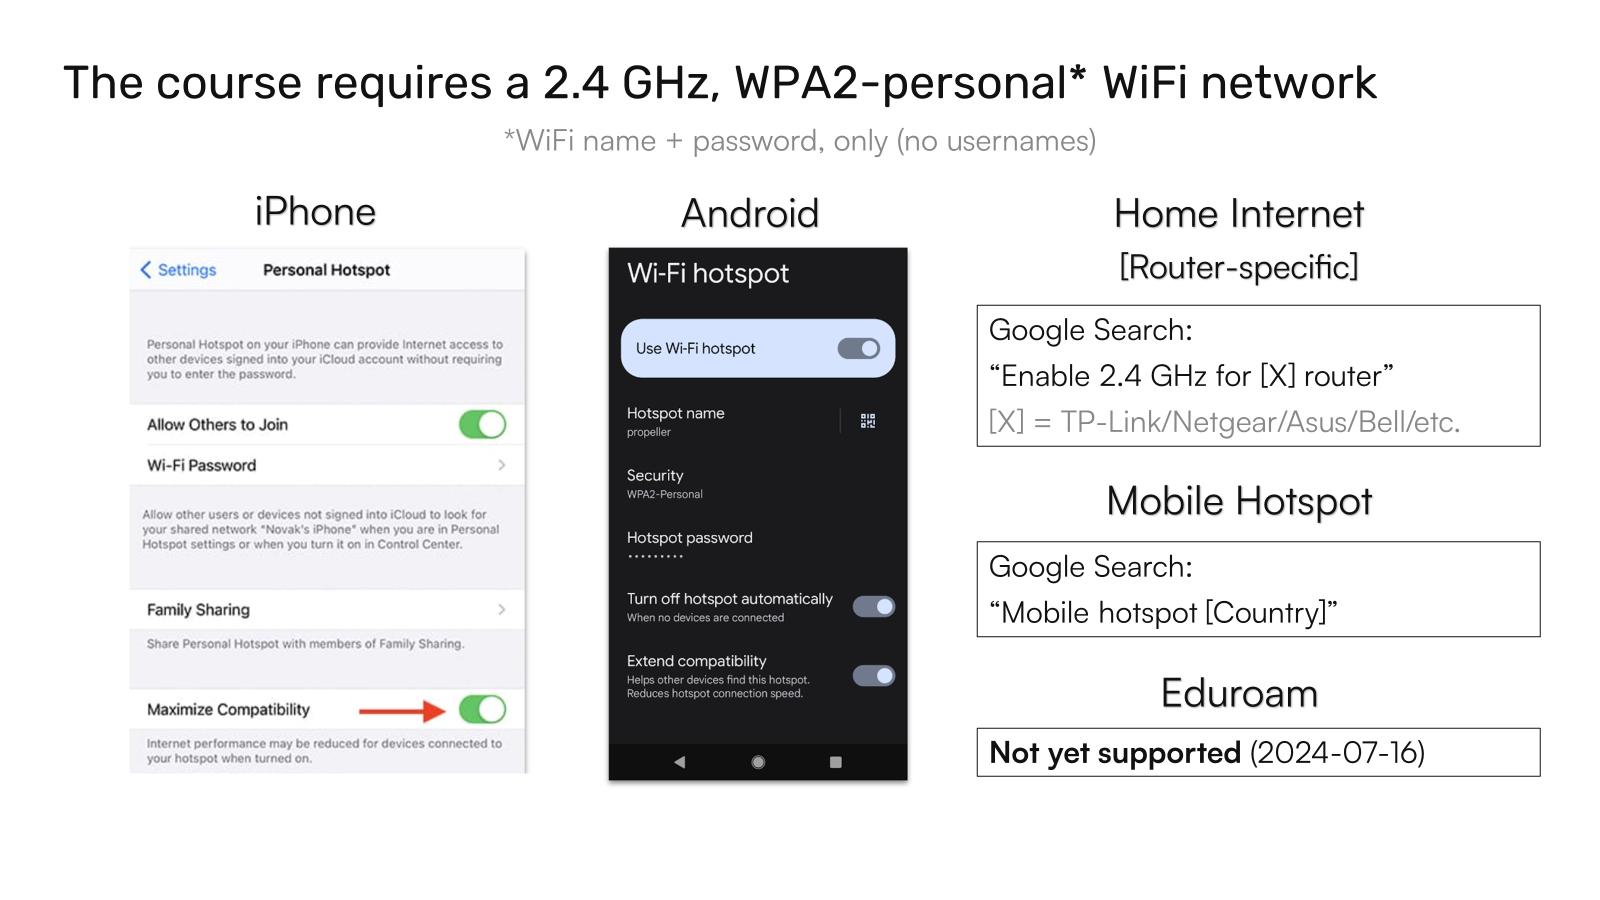
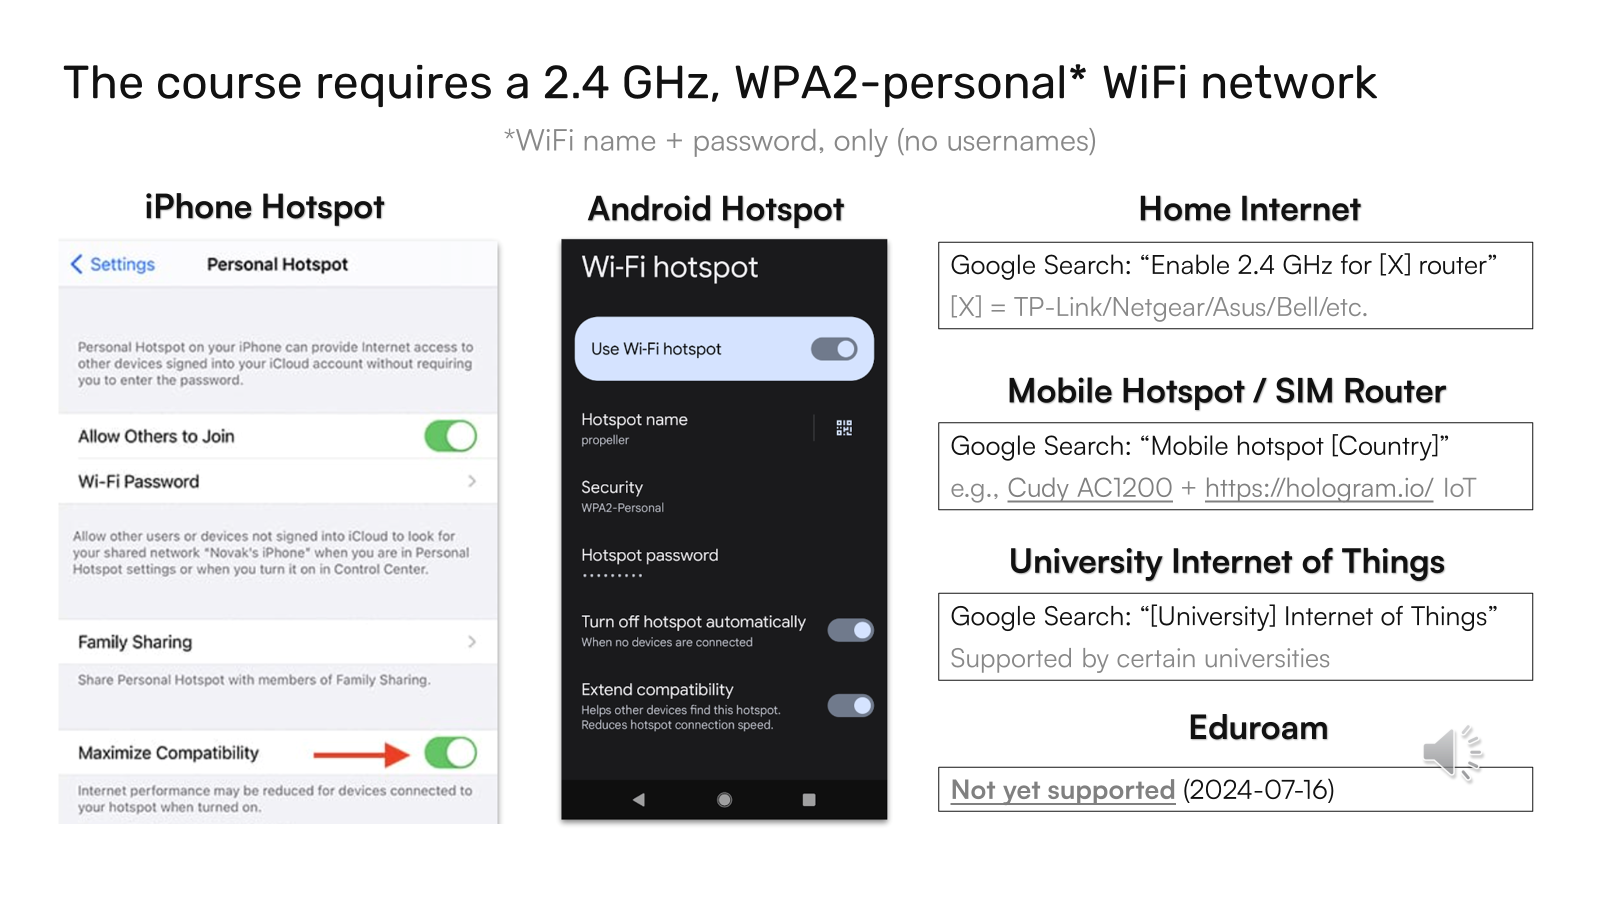
Update hardware and WiFi instructions in hello-world course documentation

diff --git a/docs/courses/hello-world/hardware-note.md b/docs/courses/hello-world/hardware-note.md
@@ -1,15 +1,17 @@
 **This course requires physical hardware and a 2.4 GHz WPA-2 wireless network**
 
-```{dropdown} Click for details on hardware and WiFi
-
 If you do not have the hardware, you will need to purchase [the required components](https://www.digikey.com/short/wj34bfjr), replacing the USB power adapter with the correct style for your country (e.g., [European type C](https://www.digikey.de/en/products/detail/cui-inc/SWI5-5-E-I38/5287193)), if necessary. You may also refer to ["Before you Begin"](https://www.sciencedirect.com/science/article/pii/S2666166723002964?via%3Dihub#sec1).
 
 ![Hardware annotated](hardware-annotated.png)
 
-You will need access to a 2.4 GHz WPA2-personal wireless network (i.e., WiFi name and password only, without usernames, which is required for most internet-of-things devices). If you do not already have access to one, some alternatives include setting up a home network to broadcast both 2.4 GHz and 5 GHz networks per your router's specific instructions, or perhaps easier - using a mobile hotspot in extended compatibility mode. Likewise, you may also use a SIM-enabled router. See some [recommendations](https://github.com/sparks-baird/self-driving-lab-demo/discussions/83) for gaining access to the required network.
+```{tip}
+If the AS7341 sensor shows as being on backorder, you can either order it from DigiKey still and wait until it comes back in stock or source it from another supplier (see e.g., [Adafruit's listing](https://www.adafruit.com/product/4698), [Mouser](https://www.mouser.com/ProductDetail/Adafruit/4698?qs=DPoM0jnrROVDX4DJc6qcFQ%3D%3D)). If you have trouble accessing the DigiKey cart, see the [CSV version of the cart](https://github.com/sparks-baird/self-driving-lab-demo/blob/main/reports/light-mixing-demo-digikey-cart.csv) [[permalink](https://github.com/sparks-baird/self-driving-lab-demo/blob/ebeea92ee16e38e8e129b89b6ef7fb961a800503/reports/light-mixing-demo-digikey-cart.csv)].
+```
+
+You will need access to a 2.4 GHz WPA2-personal wireless network (i.e., WiFi name and password only, without usernames, which is required for most internet-of-things devices). If you do not already have access to one, some alternatives include setting up a home network to broadcast both 2.4 GHz and 5 GHz networks per your router's specific instructions, or perhaps easier - using a mobile hotspot in extended compatibility mode. Likewise, you may also use a SIM-enabled router or check if your organization supports IoT devices. Eduroam is [not yet supported](https://raspberrypi.stackexchange.com/questions/139096/how-can-i-connect-my-raspberry-pi-pico-w-to-an-eduroam-wifi-access-point-wpa-au) as of 2024-07-16. See [additional recommendations](https://github.com/sparks-baird/self-driving-lab-demo/discussions/83) for gaining access to the required network.
 
 ![Wifi Help](wifi-help.png)
 
-
-UPDATE: (2024-04-01) If the AS7341 sensor shows as being on backorder, you can either order it from DigiKey still and wait until it comes back in stock or source it from another supplier (see e.g., [Adafruit's listing](https://www.adafruit.com/product/4698), [Mouser](https://www.mouser.com/ProductDetail/Adafruit/4698?qs=DPoM0jnrROVDX4DJc6qcFQ%3D%3D)). If you have trouble accessing the DigiKey cart, see the [CSV version of the cart](https://github.com/sparks-baird/self-driving-lab-demo/blob/main/reports/light-mixing-demo-digikey-cart.csv) [[permalink](https://github.com/sparks-baird/self-driving-lab-demo/blob/ebeea92ee16e38e8e129b89b6ef7fb961a800503/reports/light-mixing-demo-digikey-cart.csv)].
+```{tip}
+If you need a quick solution that can be standalone and dedicated, we have tested the [Cudy AC1200 SIM-enabled Router](https://www.amazon.com/Cudy-Unlocked-1200Mbps-EC25-AFX-Cloudflare/dp/B089JW8H4N) with a [Hologram IoT SIM Card](https://store.hologram.io/products/single-core-global-euicc-iot-sim-card) and [pay-as-you-go plan](https://www.hologram.io/pricing/), though pay-as-you-go data is expensive at US$100/GB (US$0.10/MB) and intended for low-bandwidth data transfer.
 ```
